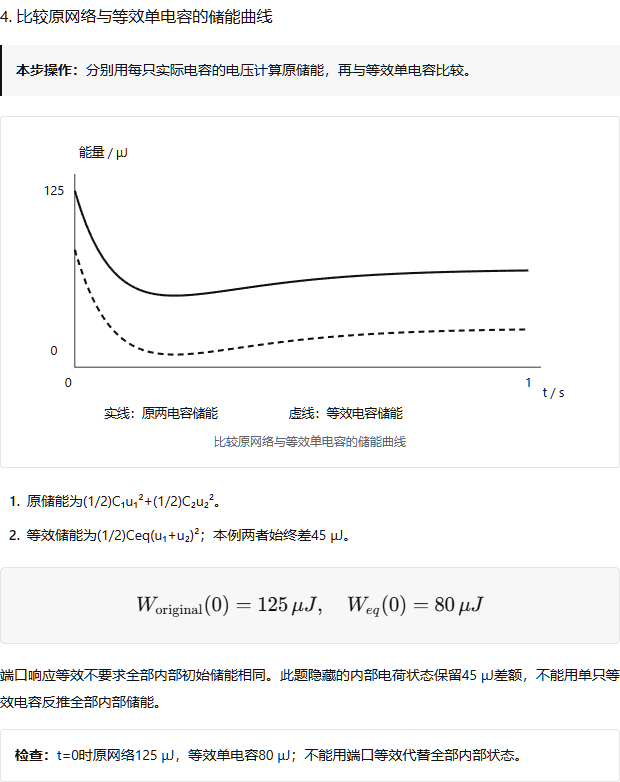
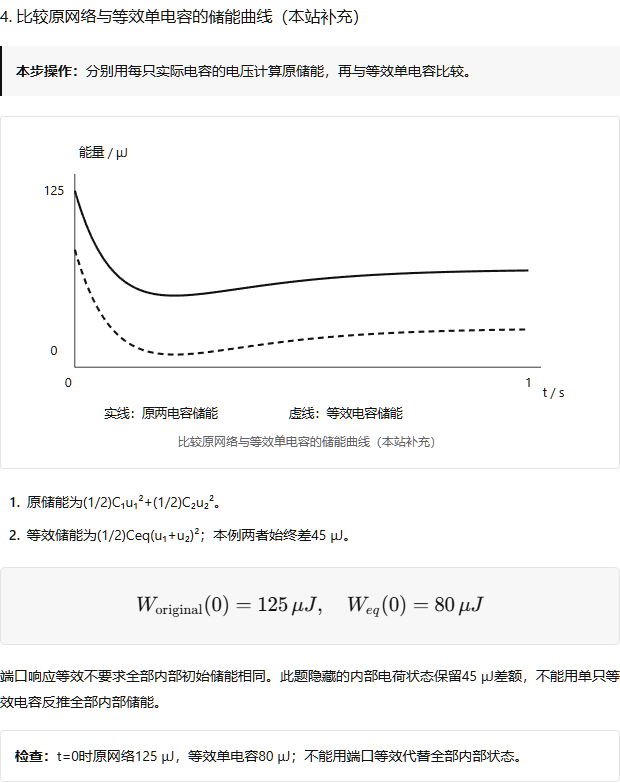
Preserve original exercise and supplemental energy analysis attribution

diff --git a/tests/worked-solutions.test.ts b/tests/worked-solutions.test.ts
@@ -194,6 +194,7 @@ test("storage-energy plots retain the internal state energy omitted by port equi
     ["book-6-9", 45],
     ["book-6-10", 15],
   ] as const) {
+    assert.ok(workedSolutions[id][3].title.includes("本站补充"), id);
     const figure = workedSolutions[id][3].figure!;
     assert.equal(figure.kind, "plot");
     if (figure.kind === "plot")
